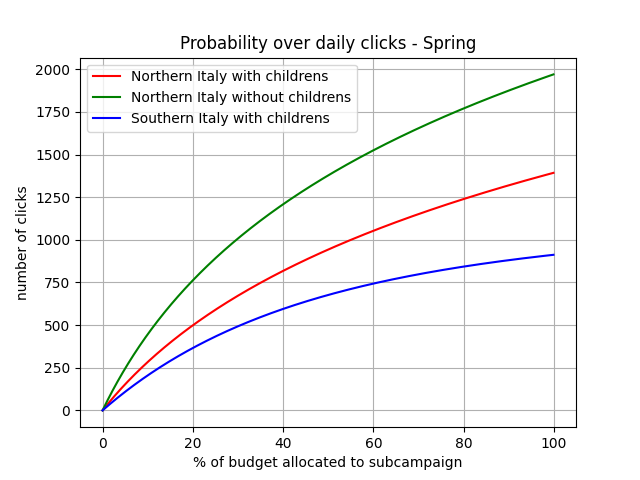
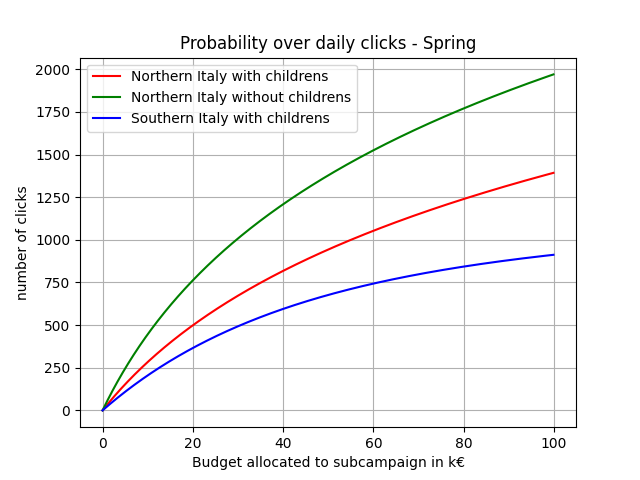
First commit CMAB-One-Phase

Changed region(s): [[0.2812, 0.9375, 0.7188, 1.0]]

diff --git a/cmab_one_phase.py b/cmab_one_phase.py
@@ -1,0 +1,56 @@
+import numpy as np
+import matplotlib.pyplot as plt
+from CMABEnvironment import *
+from CMABOptimizer import *
+from GPTS_Learner import *
+
+step = 5
+min_budgets = [5, 10, 15]
+max_budgets = [40, 35, 45]
+total_budget = 75
+budgets_j = [np.arange(min_budgets[0], max_budgets[0] + 1, step), np.arange(min_budgets[1], max_budgets[1] + 1, step), np.arange(min_budgets[2], max_budgets[2] + 1, step)]      # +1 to max_budget because range does not include the right extreme of the interval by default
+n_arms = [len(budgets_j[0]), len(budgets_j[1]), len(budgets_j[2])]
+sigma = 10
+T = 200
+J = 3
+n_experiments = 75
+per_experiment_rewards_gpts = [[] for i in range(0, J)]
+
+#   This script, configured with n_experiments = 75, T = 200, and 6-7 arms for each userType
+#   runs, in a i7-7000 machine with 16Gb of RAM in approximately 1 hour and a half
+
+for e in range(0, n_experiments):
+    opt = CMABOptimizer(max_budget=total_budget, campaign_number=J, step=step)
+    envs = [CMABEnvironment(budgets=budgets_j[0], sigma=sigma, userType=0), WIPEnv(budgets=budgets_j[1], sigma=sigma, userType=1), WIPEnv(budgets=budgets_j[2], sigma=sigma, userType=2)]
+    gpts_learners = [GPTS_Learner(n_arms=n_arms[0], arms=budgets_j[0]), GPTS_Learner(n_arms=n_arms[1], arms=budgets_j[1]), GPTS_Learner(n_arms=n_arms[2], arms=budgets_j[2])]
+
+    for t in range(0, T):
+        colNum = int(np.floor_divide(total_budget, step) + 1)
+        base_matrix = np.ones((J, colNum)) * np.NINF
+        for j in range(0, J):
+            sampled_values = gpts_learners[j].sample_values()
+            bubblesNum = int(min_budgets[j] / step)
+            indices_list = [i for i in range(bubblesNum + colNum * j, bubblesNum + colNum * j + len(sampled_values))]
+            np.put(base_matrix, indices_list, sampled_values)
+
+        chosen_budget = opt.optimize(base_matrix)
+
+        arms_chosen = []
+        for j in range(0, J):
+            chosen_arm = gpts_learners[j].convert_value_to_arm(chosen_budget[j])
+            chosen_arm = int(chosen_arm[0])
+            reward = envs[j].round(chosen_arm)
+            gpts_learners[j].update(chosen_arm, reward)
+
+    for j in range(0, J):
+        per_experiment_rewards_gpts[j].append(gpts_learners[j].collected_rewards)
+
+
+for j in range(0, J):
+    opt = np.max(envs[j].means)
+    plt.figure(j)
+    plt.ylabel("Regret")
+    plt.xlabel("t")
+    plt.plot(np.cumsum(np.mean(opt - per_experiment_rewards_gpts[j], axis=0)), 'r')
+    plt.legend(["UserType = " + str(j)])
+    plt.show()

diff --git a/CMABOptimizer.py b/CMABOptimizer.py
@@ -1,0 +1,33 @@
+import numpy as np
+
+
+class CMABOptimizer():
+    def __init__(self, max_budget, campaign_number, step):
+        if (max_budget % step == 0):
+            self.budgets = [i for i in range(0, int(max_budget) + 1, step)]  # +1 to max_budget because range does not include the right extreme of the interval by default
+        else:
+            self.budgets = [i for i in range(0, int(max_budget), step)]
+        self.campaign_number = campaign_number
+        self.step = step
+
+    def optimize(self, matrix):
+        array_old = np.zeros(matrix.shape[1])
+        array_next = np.zeros(matrix.shape[1])
+        budget_assigned_old = [[ 0 for i in range(0, self.campaign_number)]] * matrix.shape[1]
+        budget_assigned_new = [[ 0 for i in range(0, self.campaign_number)]] * matrix.shape[1]
+        for r in range(0, matrix.shape[0]):
+            for c in range(0, matrix.shape[1]):
+                values = np.zeros(c + 1)
+                for i in range(0, len(values)):
+                    np.put(values, i, matrix[r, c - i] + array_old[i])
+
+                idx = int(np.argmax(values))
+                budget_assigned_new[c] = budget_assigned_old[idx].copy()
+                budget_assigned_new[c][r] = self.budgets[c - idx]
+
+                np.put(array_next, [c], max(values))
+            array_old = array_next
+            array_next = np.zeros(int(matrix.shape[1]))
+            budget_assigned_old = budget_assigned_new.copy()
+        chosen_budget = budget_assigned_new[int(np.argmax(array_old))]
+        return chosen_budget      # If using integer step this can be done

diff --git a/probability_over_clicks.py b/probability_over_clicks.py
@@ -21,7 +21,7 @@ ax.plot(t, s1, "r")
 ax.plot(t, s2, "g")
 ax.plot(t, s3, "b")
 plt.legend(["Northern Italy with childrens", "Northern Italy without childrens", "Southern Italy with childrens"])
-ax.set(xlabel='% of budget allocated to subcampaign', ylabel='number of clicks',
+ax.set(xlabel='Budget allocated to subcampaign in k€', ylabel='number of clicks',
        title='Probability over daily clicks - Autumn')
 ax.grid()
 plt.savefig('curves/daily_clicks_fall.png')
@@ -32,7 +32,7 @@ ax2.plot(t, w1, "r")
 ax2.plot(t, w2, "g")
 ax2.plot(t, w3, "b")
 plt.legend(["Northern Italy with childrens", "Northern Italy without childrens", "Southern Italy with childrens"])
-ax2.set(xlabel='% of budget allocated to subcampaign', ylabel='number of clicks',
+ax2.set(xlabel='Budget allocated to subcampaign in k€', ylabel='number of clicks',
        title='Probability over daily clicks - Christmas time')
 ax2.grid()
 plt.savefig('curves/daily_clicks_xmas.png')
@@ -43,7 +43,7 @@ ax3.plot(t, pr1, "r")
 ax3.plot(t, pr2, "g")
 ax3.plot(t, pr3, "b")
 plt.legend(["Northern Italy with childrens", "Northern Italy without childrens", "Southern Italy with childrens"])
-ax3.set(xlabel='% of budget allocated to subcampaign', ylabel='number of clicks',
+ax3.set(xlabel='Budget allocated to subcampaign in k€', ylabel='number of clicks',
        title='Probability over daily clicks - Spring')
 ax3.grid()
 plt.savefig('curves/daily_clicks_spring.png')

diff --git a/GPTS_Learner.py b/GPTS_Learner.py
@@ -8,7 +8,7 @@ class GPTS_Learner(Learner):
     def __init__(self, n_arms, arms):
         super().__init__(n_arms)
         self.arms = arms
-        self.means = np.zeros(self.n_arms)
+        self.means = np.ones(self.n_arms)*10
         self.sigmas = np.ones(self.n_arms)*10
         self.pulled_arms = []
         alpha = 10.0
@@ -32,6 +32,11 @@ class GPTS_Learner(Learner):
         self.update_model()
 
     def pull_arm(self):
-        sampled_values = np.random.normal(self.means, self.sigmas)
+        sampled_values = self.sample_values()
         return np.argmax(sampled_values)
 
+    def sample_values(self):
+        return np.random.normal(self.means, self.sigmas)
+
+    def convert_value_to_arm(self, value):
+        return np.where(self.arms == value)

diff --git a/CMABEnvironment.py b/CMABEnvironment.py
@@ -1,0 +1,20 @@
+import numpy as np
+
+
+def fun(x, userType):
+    if (userType == 0):
+        return 10500 * (1 - np.exp((-1*x)/40))
+    elif (userType == 2):
+        return 12000 * (1 - np.exp((-1*x)/70)) + 1000 * np.log(x+1)
+    else:
+        return 3500 * (1 - np.exp((-1*x)/10))
+
+
+class CMABEnvironment():
+    def __init__(self, budgets, sigma, userType):
+        self.budgets = budgets
+        self.means = fun(budgets, userType)
+        self.sigmas = np.ones(len(budgets)) * sigma
+
+    def round(self, pulled_arm):
+        return np.random.normal(self.means[pulled_arm], self.sigmas[pulled_arm])

diff --git a/Learner.py b/Learner.py
@@ -11,6 +11,6 @@ class Learner:
     def pull_arm(self):
         pass
 
-    def update_observations(self,pulled_arm, reward):
+    def update_observations(self, pulled_arm, reward):
         self.rewards_per_arm[pulled_arm].append(reward)
         self.collected_rewards = np.append(self.collected_rewards, reward)
